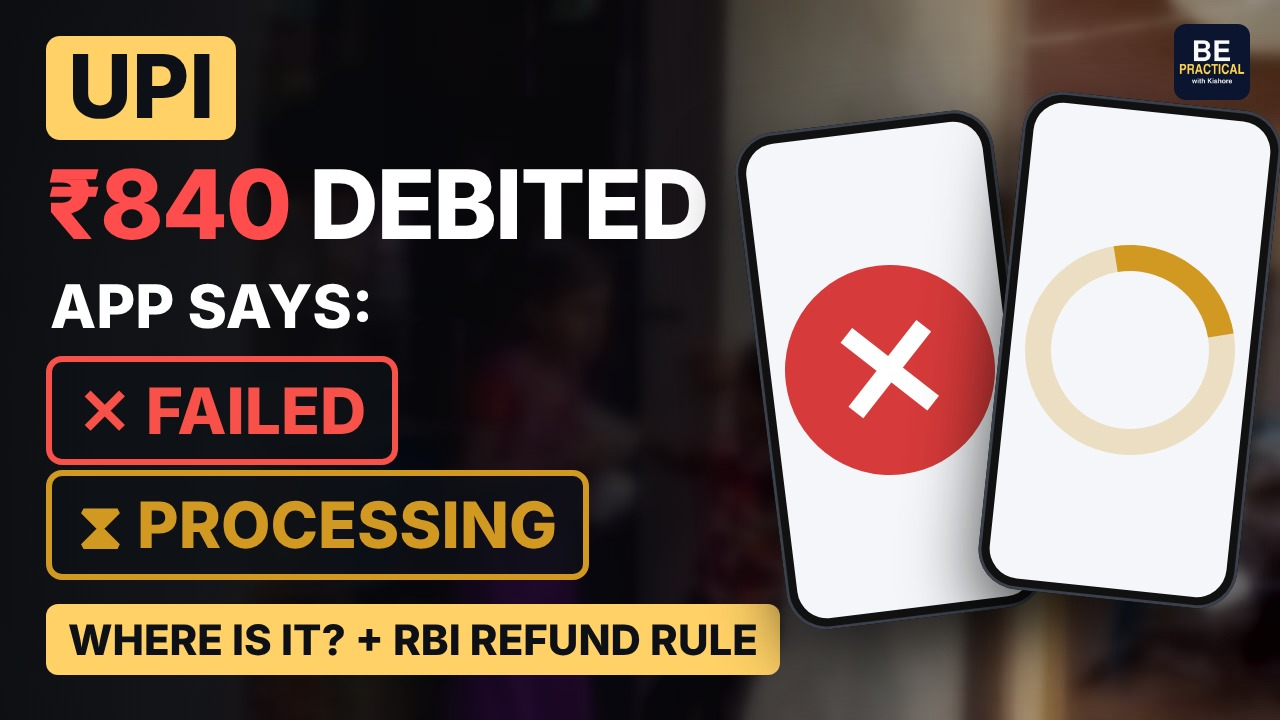
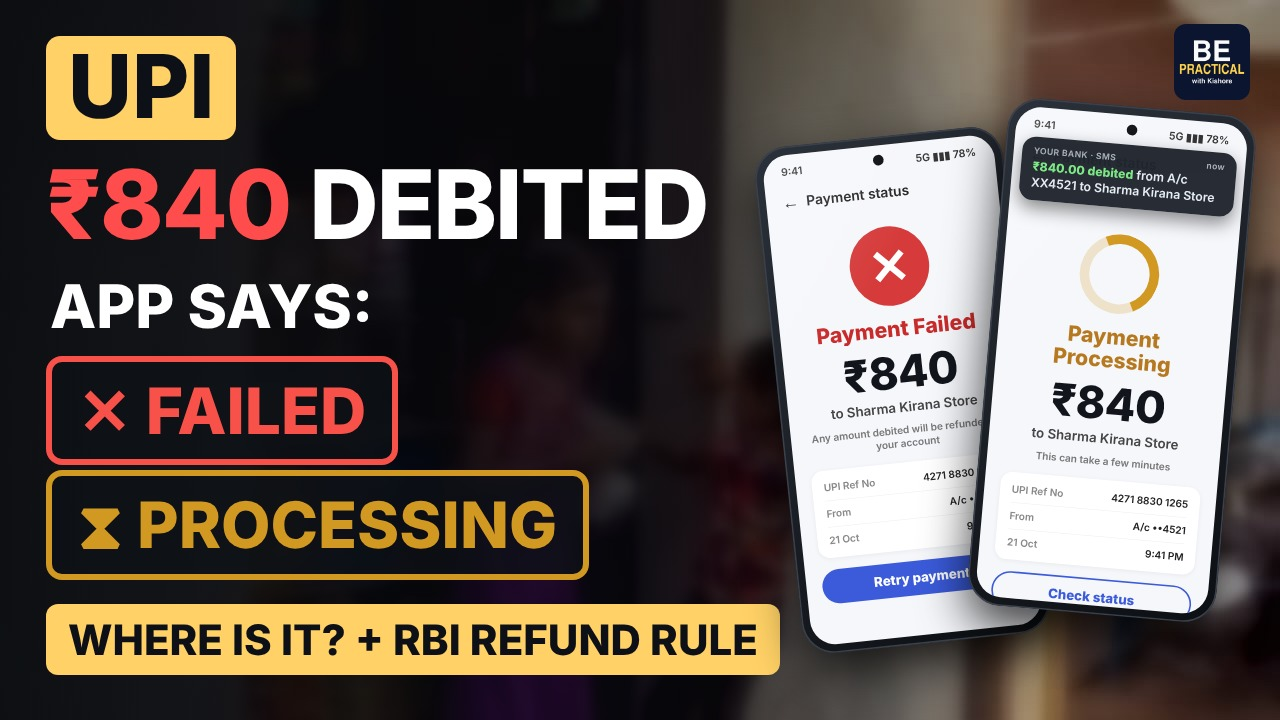
UPI film 01 thumbnail: realistic UPI app screens (failed / processing + bank debit SMS)
Claude-Session: https://claude.ai/code/session_01YUUN1LokijKa2yqR6w3YWp

Changed region(s): [[0.5625, 0.1222, 1.0, 0.9167], [0.6562, 0.2444, 0.7188, 0.275]]

diff --git a/projects/upi-money-deducted/youtube/thumb/thumb_c.html b/projects/upi-money-deducted/youtube/thumb/thumb_c.html
@@ -1,5 +1,7 @@
 <!doctype html><html><head><meta charset="utf-8"><style>
 @font-face{font-family:I;font-weight:800;src:url(inter-latin-800-normal.woff2)}
+@font-face{font-family:I;font-weight:600;src:url(inter-latin-600-normal.woff2)}
+@font-face{font-family:I;font-weight:600;src:url(inter-latin-ext-600-normal.woff2);unicode-range:U+20B9}
 @font-face{font-family:I;font-weight:800;src:url(inter-latin-ext-800-normal.woff2);unicode-range:U+20B9}
 *{margin:0;padding:0;box-sizing:border-box}body{width:1280px;height:720px;overflow:hidden;font-family:I,sans-serif;font-weight:800;background:#0d1117}
 .bg{position:absolute;inset:0;background:url(bg2.jpg) center/cover}
@@ -11,16 +13,34 @@
 .c1,.c2{position:absolute;left:46px;font-size:64px;padding:10px 26px;border-radius:16px;border:6px solid currentColor;background:rgba(13,17,23,.75)}
 .c1{top:356px;color:#f85149}.c2{top:470px;color:#d29922}
 .ans{position:absolute;left:46px;top:604px;font-size:42px;padding:10px 22px;border-radius:12px;background:#ffd166;color:#0d1117}
-.ph{position:absolute;width:260px;height:500px;border-radius:40px;padding:11px;background:#111;box-shadow:0 30px 70px rgba(0,0,0,.7),inset 0 0 0 3px #3a414c}
-.scr{width:100%;height:100%;border-radius:30px;background:#f4f6f9;display:flex;align-items:center;justify-content:center}
-.ic{width:210px;height:210px;border-radius:50%;background:#d63a3a;color:#fff;font-size:145px;line-height:210px;text-align:center}
-.spin{width:210px;height:210px;border-radius:50%;border:26px solid rgba(210,153,34,.25);border-top-color:#d29922;transform:rotate(30deg)}
-.p1{left:760px;top:120px;transform:rotate(-7deg)}.p2{left:1000px;top:100px;transform:rotate(6deg)}
+.ph{position:absolute;width:470px;height:960px;border-radius:62px;padding:16px;background:linear-gradient(145deg,#2b313a,#0c0f13);box-shadow:0 40px 90px rgba(0,0,0,.75),inset 0 0 0 3px #3a414c;transform-origin:0 0}
+.scr{position:relative;width:100%;height:100%;border-radius:48px;overflow:hidden;background:#f6f7fb;color:#12161c;padding:74px 30px 0;text-align:center}
+.cam{position:absolute;left:50%;top:18px;width:20px;height:20px;margin-left:-10px;border-radius:50%;background:#05070a}
+.glare{position:absolute;inset:0;background:linear-gradient(125deg,rgba(255,255,255,.18) 0%,rgba(255,255,255,0) 35%)}
+.sbar{position:absolute;left:34px;right:34px;top:22px;display:flex;justify-content:space-between;font:600 20px/1 I;color:#333}
+.hd{display:flex;align-items:center;gap:14px;font:600 26px/1 I;text-align:left;color:#222}
+.hd i{font-style:normal;font-size:32px}
+.ic{width:150px;height:150px;margin:48px auto 22px;border-radius:50%;background:#d63a3a;color:#fff;font:800 92px/150px I}
+.spin{width:150px;height:150px;margin:48px auto 22px;border-radius:50%;border:18px solid rgba(210,153,34,.22);border-top-color:#d29922;border-right-color:#d29922;transform:rotate(20deg)}
+.st{font:800 40px/1.1 I}
+.am{font:800 84px/1 I;margin:18px 0 8px;letter-spacing:-1px}
+.to{font:600 25px/1.3 I;color:#444}
+.note{font:600 19px/1.35 I;color:#777;margin:14px 6px 0}
+.card{margin:22px 0 0;background:#fff;border-radius:22px;padding:8px 22px;box-shadow:0 2px 10px rgba(0,0,0,.06);text-align:left}
+.row{display:flex;justify-content:space-between;font:600 19px/1 I;color:#888;padding:15px 0;border-bottom:1px solid #eee}.row:last-child{border:0}
+.row b{color:#222;font-weight:600}
+.btn{margin:22px 0 0;padding:20px;border-radius:40px;font:800 25px/1 I;background:#3b5bdb;color:#fff}
+.btn.o{background:none;border:3px solid #3b5bdb;color:#3b5bdb}
+.notif{position:absolute;left:16px;right:16px;top:56px;z-index:3;border-radius:26px;padding:18px 22px;background:rgba(32,37,46,.97);color:#e6edf3;text-align:left;font:600 23px/1.3 I;box-shadow:0 14px 34px rgba(0,0,0,.45)}
+.notif .fr{display:flex;justify-content:space-between;font:600 16px/1 I;letter-spacing:.05em;opacity:.7;margin-bottom:8px}
+.notif b{color:#7ee787;font-weight:800}
+.p1{left:752px;top:150px;transform:rotate(-6deg) scale(.53)}.p2{left:1010px;top:96px;transform:rotate(5deg) scale(.53)}
+.p2 .spin{margin-top:120px}
 .logo{position:absolute;right:30px;top:24px;width:76px;height:76px;border-radius:12px}
 </style></head><body><div class="bg"></div><div class="sh"></div>
 <div class="upi">UPI</div><div class="t1"><b>₹840</b> DEBITED</div><div class="but">APP SAYS:</div>
 <div class="c1">✕ FAILED</div><div class="c2">⧗ PROCESSING</div>
 <div class="ans">WHERE IS IT? + RBI REFUND RULE</div>
-<div class="ph p1"><div class="scr"><div class="ic">✕</div></div></div>
-<div class="ph p2"><div class="scr"><div class="spin"></div></div></div>
+<div class="ph p1"><div class="scr"><div class="sbar"><span>9:41</span><span>5G ▮▮▮ 78%</span></div><div class="cam"></div><div class="hd"><i>←</i>Payment status</div><div class="ic">✕</div><div class="st" style="color:#c92a2a">Payment Failed</div><div class="am">₹840</div><div class="to">to Sharma Kirana Store</div><div class="note">Any amount debited will be refunded to your account</div><div class="card"><div class="row">UPI Ref No <b>4271 8830 1265</b></div><div class="row">From <b>A/c ••4521</b></div><div class="row">21 Oct <b>9:41 PM</b></div></div><div class="btn">Retry payment</div><div class="glare"></div></div></div>
+<div class="ph p2"><div class="scr"><div class="sbar"><span>9:41</span><span>5G ▮▮▮ 78%</span></div><div class="cam"></div><div class="notif"><div class="fr"><span>YOUR BANK · SMS</span><span>now</span></div><b>₹840.00 debited</b> from A/c XX4521 to Sharma Kirana Store</div><div class="hd"><i>←</i>Payment status</div><div class="spin"></div><div class="st" style="color:#b7791f">Payment Processing</div><div class="am">₹840</div><div class="to">to Sharma Kirana Store</div><div class="note">This can take a few minutes</div><div class="card"><div class="row">UPI Ref No <b>4271 8830 1265</b></div><div class="row">From <b>A/c ••4521</b></div><div class="row">21 Oct <b>9:41 PM</b></div></div><div class="btn o">Check status</div><div class="glare"></div></div></div>
 <img class="logo" src="logo.png"></body></html>
